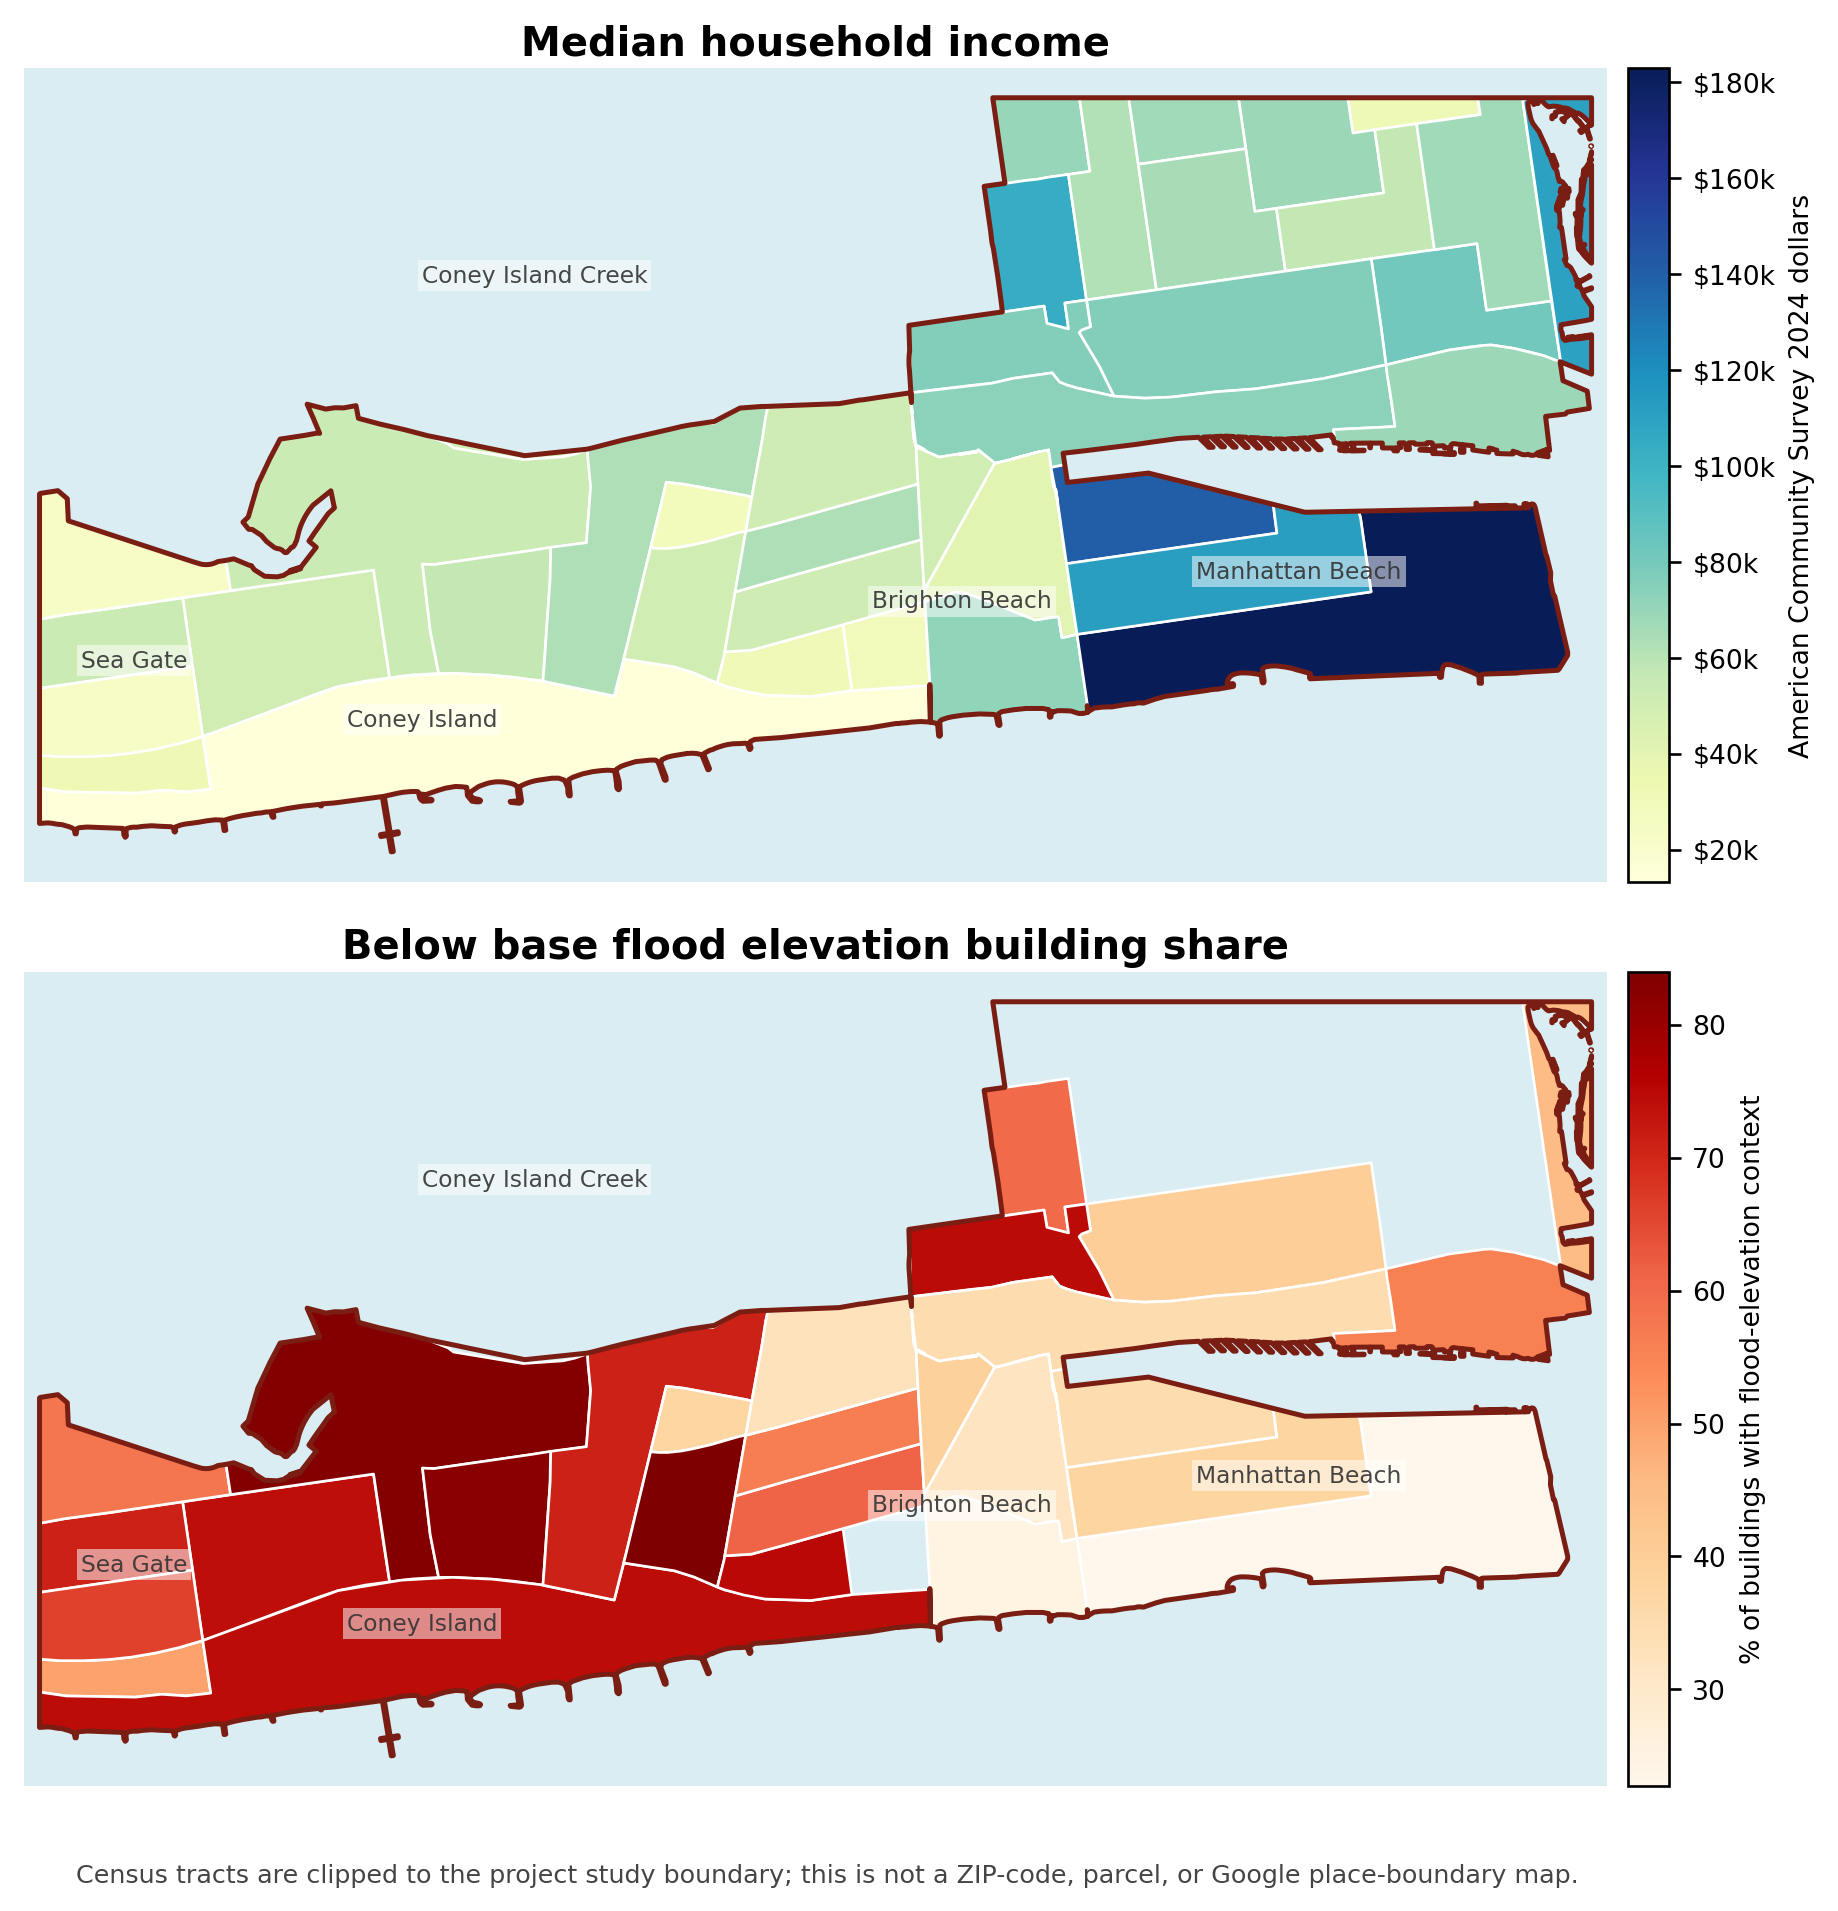
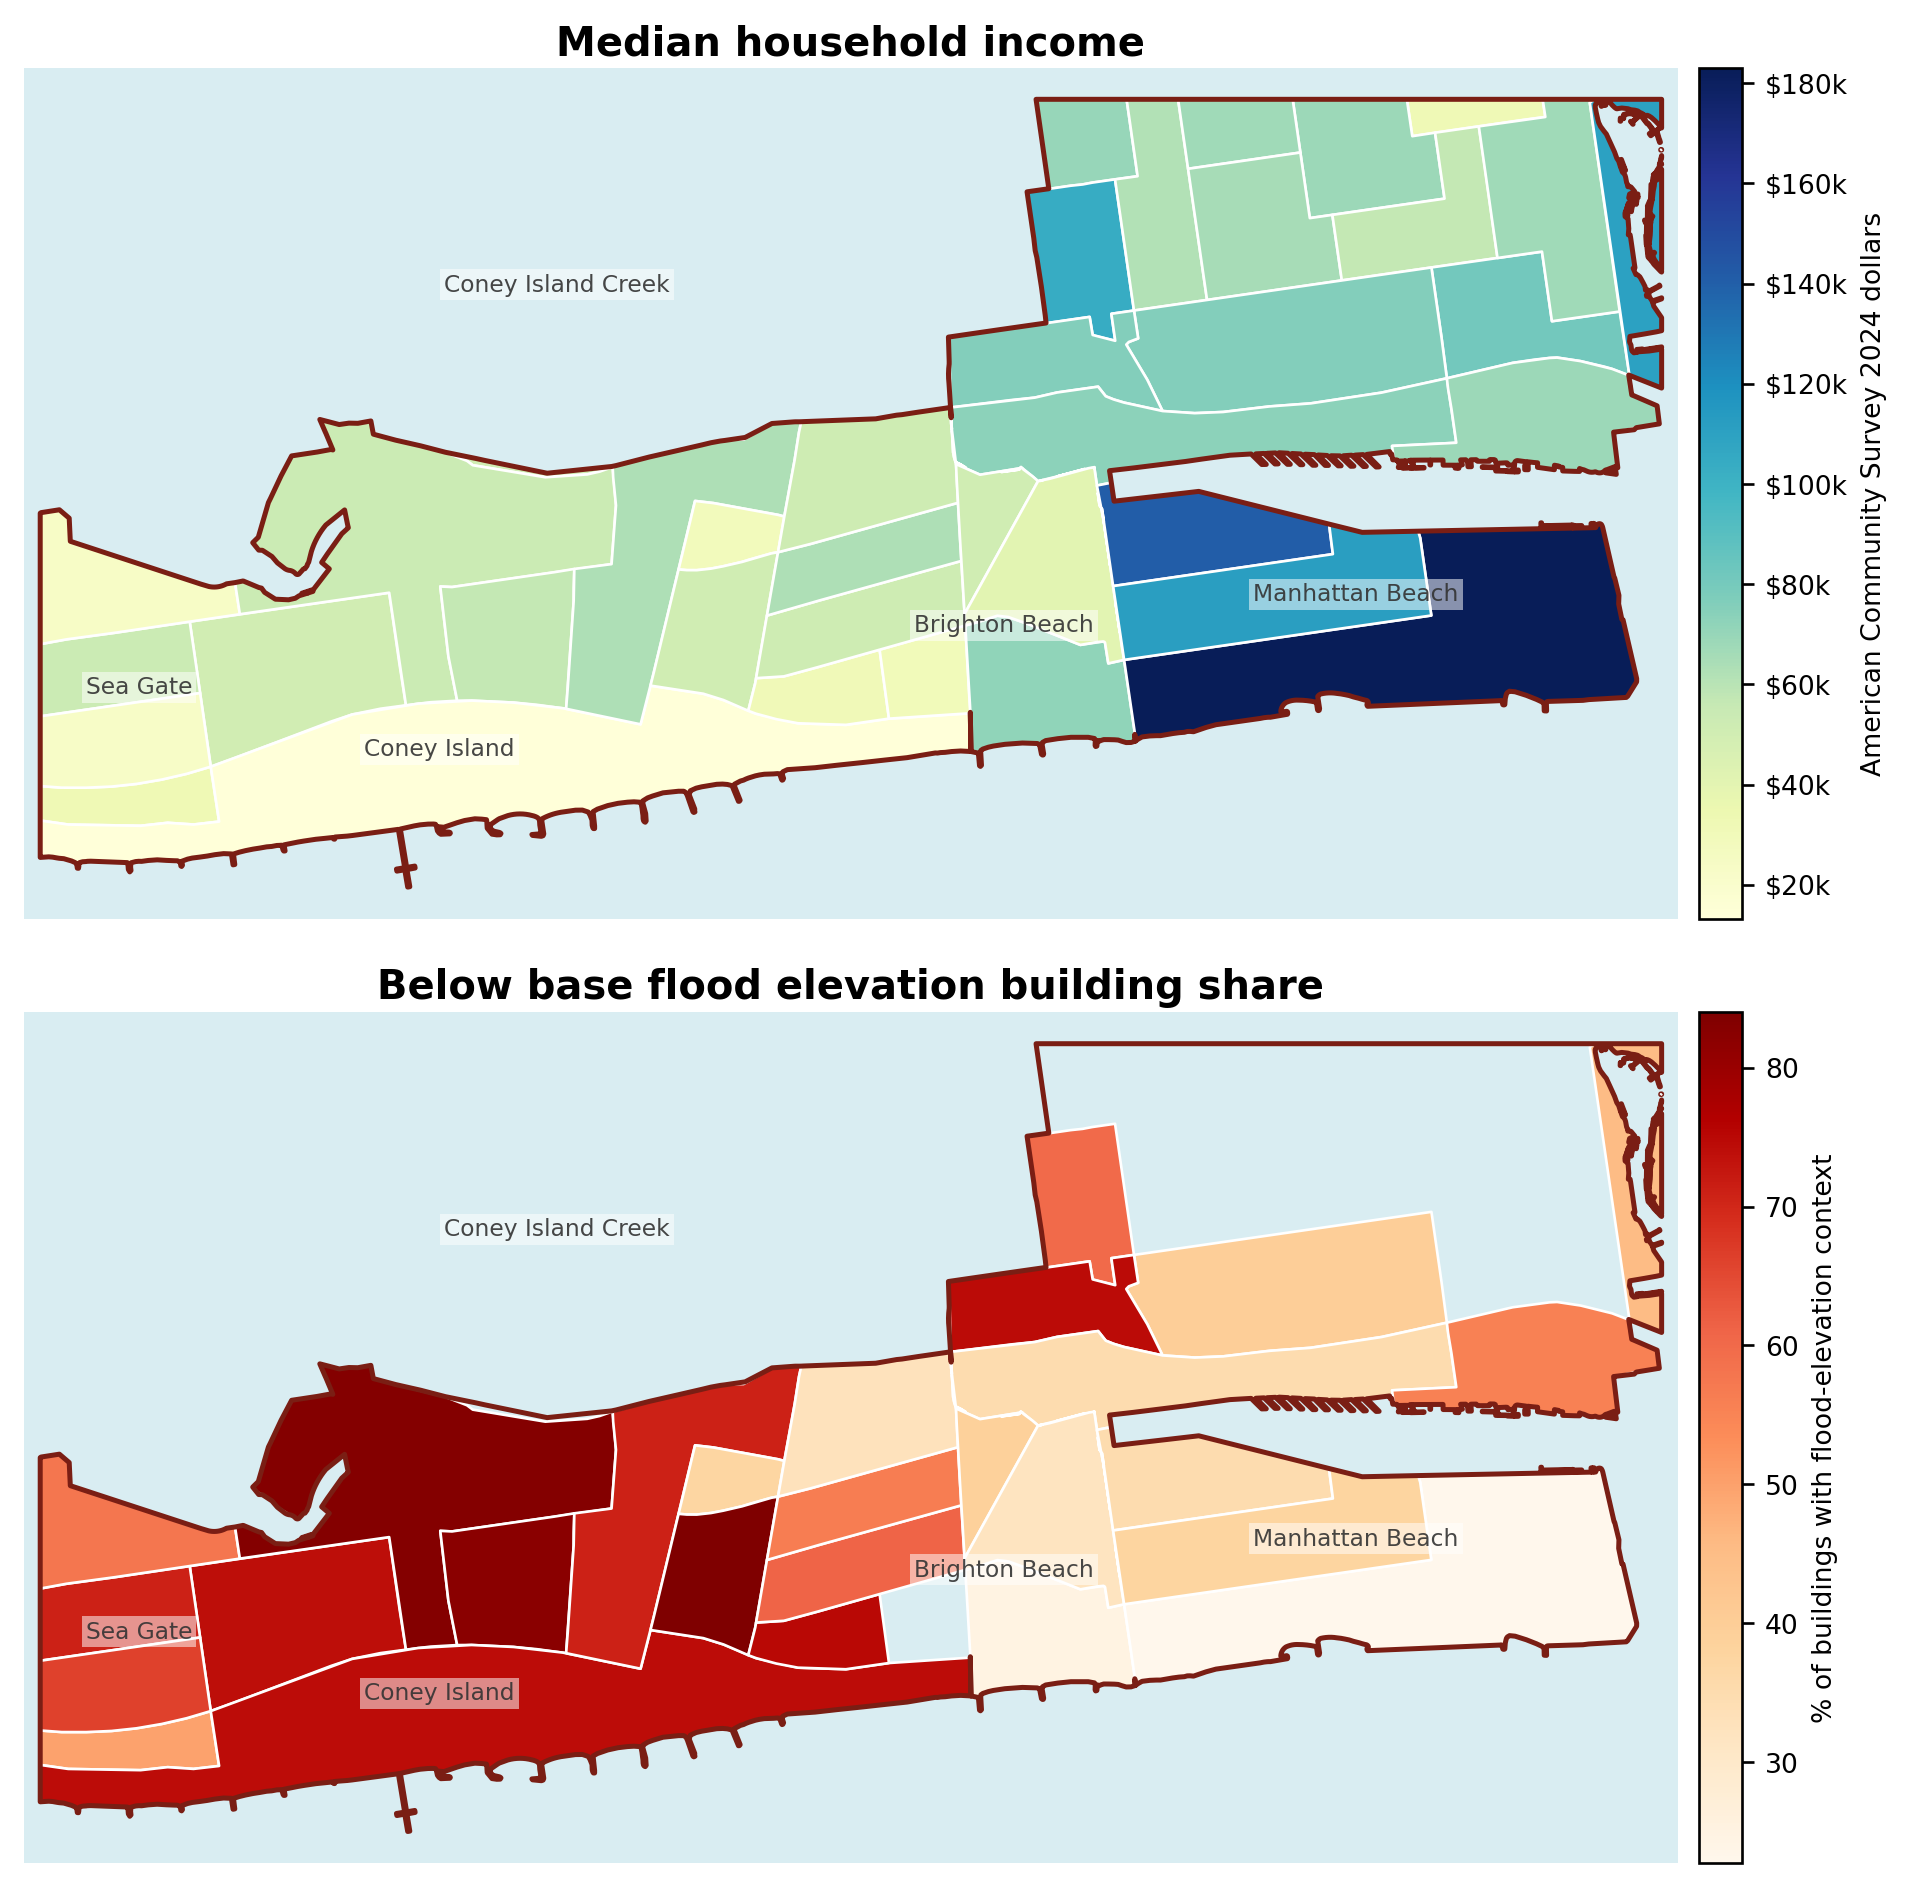
Remove figure footer annotations

diff --git a/src/process_data_and_generate_figures.py b/src/process_data_and_generate_figures.py
@@ -525,7 +525,7 @@ def plot_maps(tracts: list[dict[str, Any]], rows: list[dict[str, Any]], study_bo
     mapped_tracts = [tract for tract in tracts if tract["properties"]["geoid"] in income_values]
 
     fig, axes = plt.subplots(2, 1, figsize=(8.0, 8.0), constrained_layout=False)
-    fig.subplots_adjust(left=0.02, right=0.94, top=0.97, bottom=0.075, hspace=0.11)
+    fig.subplots_adjust(left=0.02, right=0.94, top=0.97, bottom=0.035, hspace=0.11)
     add_choropleth(
         axes[0],
         mapped_tracts,
@@ -546,14 +546,6 @@ def plot_maps(tracts: list[dict[str, Any]], rows: list[dict[str, Any]], study_bo
         "% of buildings with flood-elevation context",
         money=False,
     )
-    fig.text(
-        0.5,
-        0.025,
-        "Census tracts are clipped to the project study boundary; this is not a ZIP-code, parcel, or Google place-boundary map.",
-        ha="center",
-        fontsize=7.6,
-        color="#444444",
-    )
     fig.savefig(FIGURE_DIR / "fig_income_vs_vulnerability_maps.png", dpi=240, bbox_inches="tight")
     plt.close(fig)
 
@@ -568,7 +560,7 @@ def plot_income_tiers(tiers: list[dict[str, Any]]) -> None:
     ])
 
     fig, ax1 = plt.subplots(figsize=(10, 6.2))
-    fig.subplots_adjust(left=0.1, right=0.88, top=0.82, bottom=0.24)
+    fig.subplots_adjust(left=0.1, right=0.88, top=0.82, bottom=0.16)
     x = np.arange(len(labels))
     ax1.bar(x, measured, color="#2F6F88", label="Measured values")
     ax1.bar(x, estimated, bottom=measured, color="#E7A23B", label="Estimated values")
@@ -600,14 +592,6 @@ def plot_income_tiers(tiers: list[dict[str, Any]]) -> None:
         fontsize=14,
         weight="bold",
         pad=14,
-    )
-    fig.text(
-        0.5,
-        0.01,
-        "Tier labels sort app-area census tracts by American Community Survey 2024 median household income. Estimates remain screening indicators, not compliance findings.",
-        ha="center",
-        fontsize=9,
-        color="#444444",
     )
     fig.savefig(FIGURE_DIR / "fig_income_tier_vulnerability.png", dpi=240, bbox_inches="tight")
     plt.close(fig)